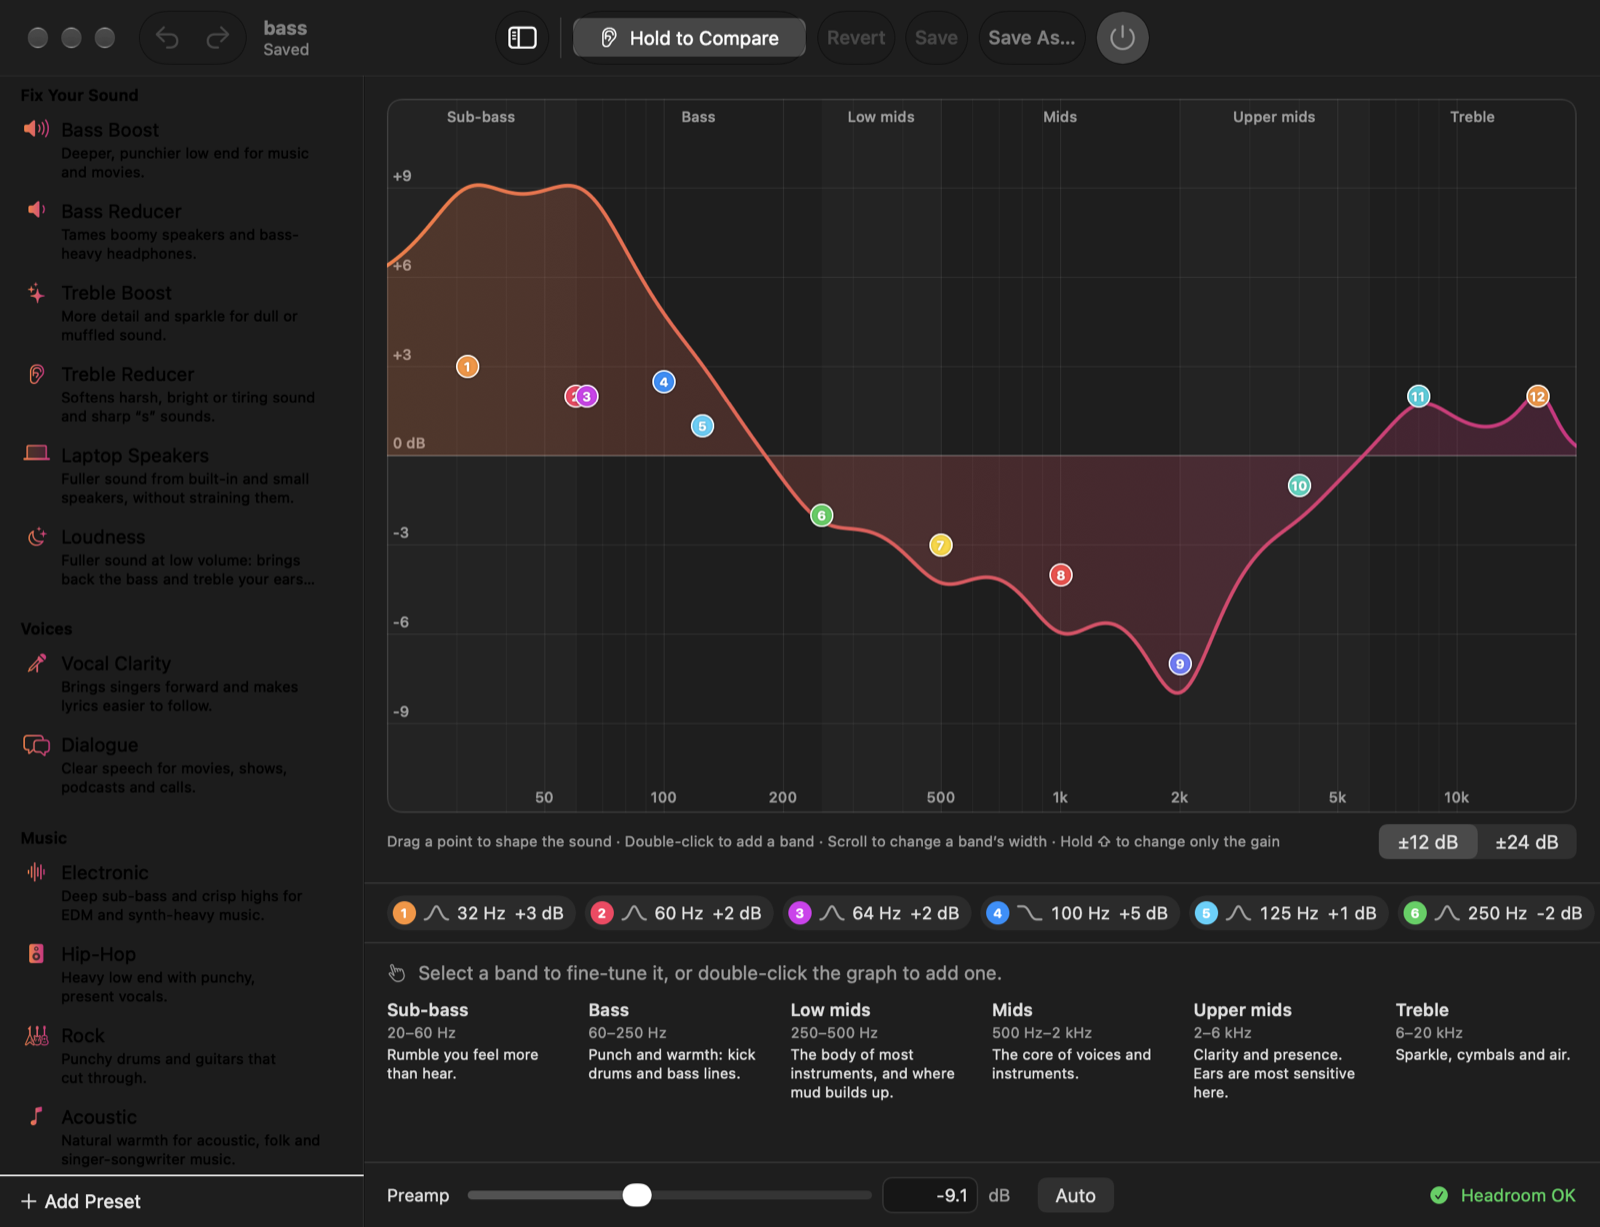
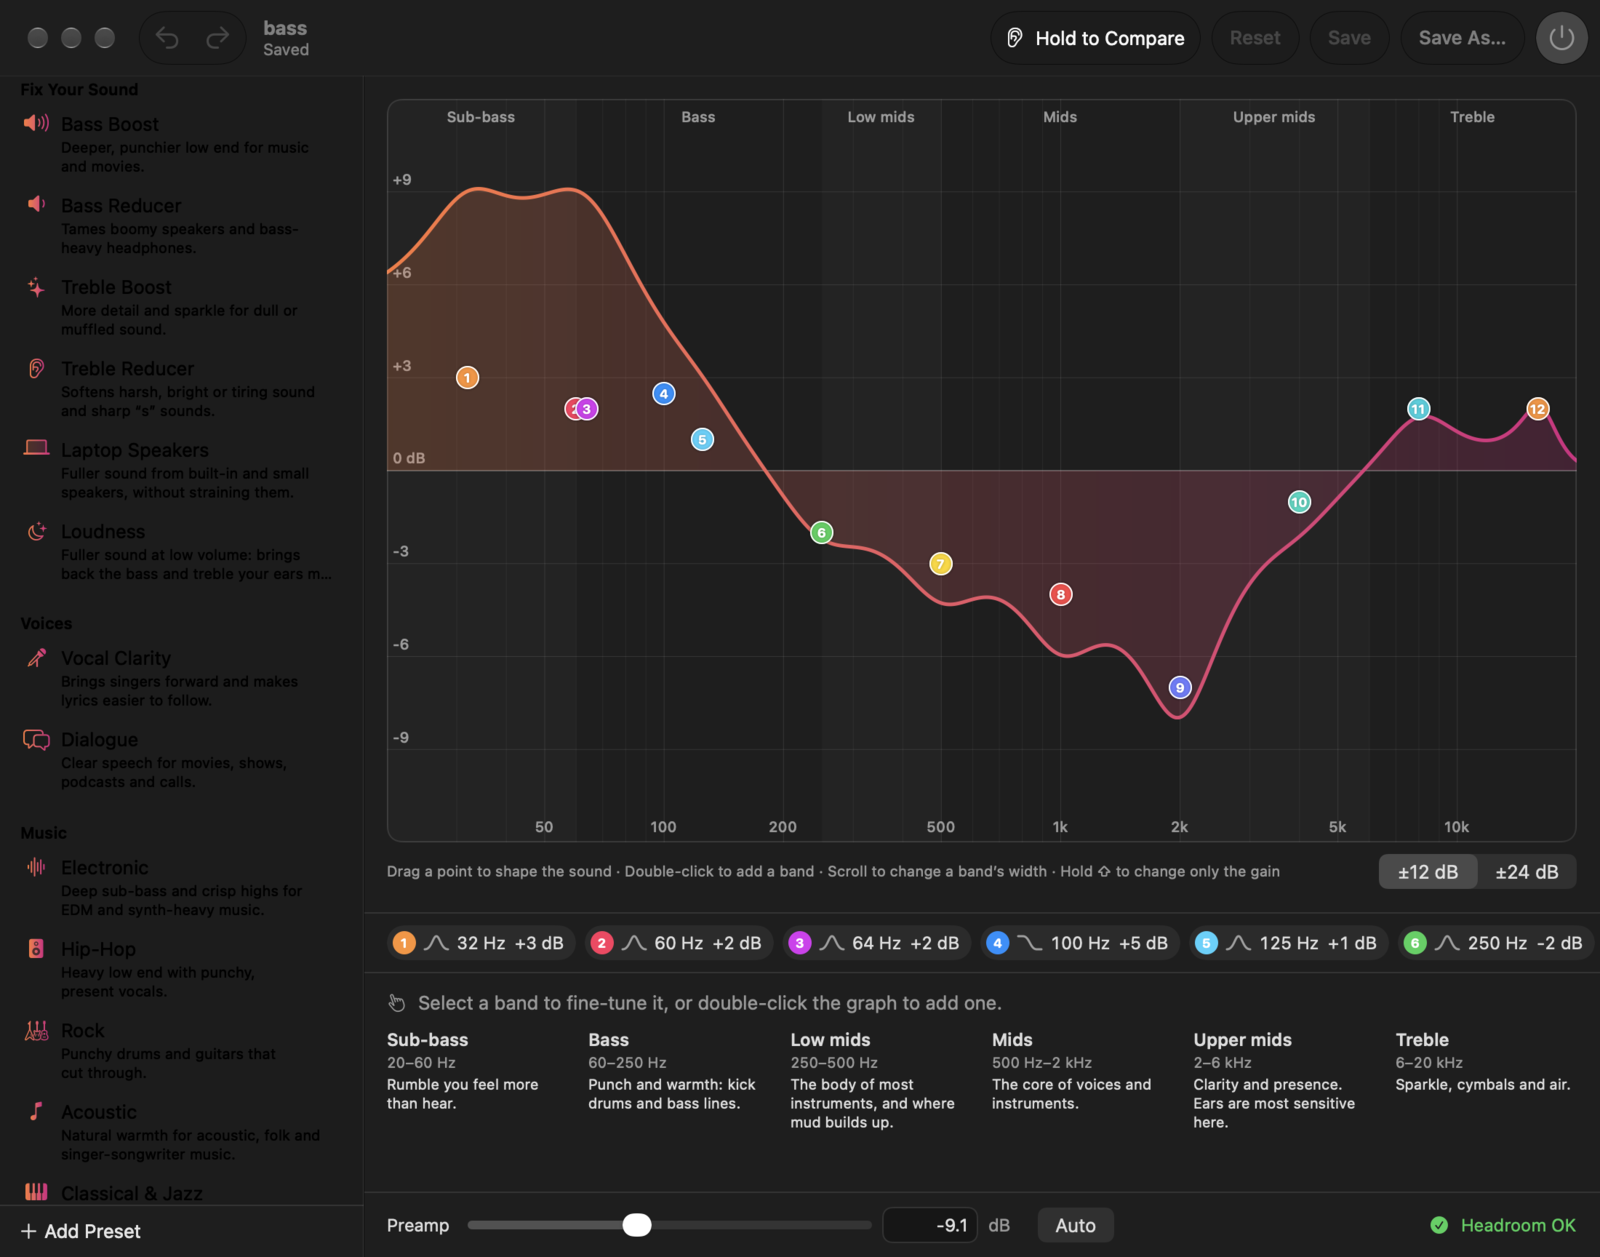
Replace Revert with one Reset to the preset's original state
"Revert" was confusing, and the equalizer offered two ways back behind
one menu: Revert to Saved Version and Reset to Original Tuning. Make it
one Reset that puts a preset back to its original state: a Sound Library
or eqtune preset to the tuning it shipped with, one of the user's own to
how it was last saved.

- The toolbar's Revert menu, the popover's Revert button and the
  sidebar's two menu items become Reset (Reset… in the menu), disabled
  when there's nothing to put back.
- Resetting one of eqtune's presets with only its own unsaved edits no
  longer asks to save them first. eqtune's reset refuses while edits are
  unsaved, but the reset replaces these anyway, so they're dropped. It
  still asks when other presets have unsaved edits.
- Deleting one of eqtune's presets promised that Reset to Original
  Tuning brings it back, but a deleted preset has no row to reset, so it
  now gets the same warning as any other.
- README and CHANGELOG say reset, and the screenshots show the current
  toolbar, Hold to Compare and preset descriptions.

diff --git a/Oomph/UI/Dialogs.swift b/Oomph/UI/Dialogs.swift
@@ -34,20 +34,15 @@ enum Dialogs {
 
     // MARK: - Going back
 
-    /// Throws away unsaved edits, after asking. eqtune can only discard every preset's edits
-    /// at once (by restarting the EQ), so the question names everything that goes back.
-    static func revert(store: EqtuneStore) async {
-        guard let status = store.status, !status.dirtyPresets.isEmpty else { return }
-        let one = status.dirtyPresets.count == 1
-        let alert = NSAlert()
-        alert.messageText = "Revert to the saved version?"
-        alert.informativeText = "\(list(status.dirtyPresets)) \(one ? "goes" : "go") back to how \(one ? "it was" : "they were") last saved."
-            + (status.isOn ? " The EQ restarts for a moment." : "")
-        alert.addButton(withTitle: "Revert").hasDestructiveAction = true
-        alert.addButton(withTitle: "Cancel")
-        NSApp.activate()
-        guard alert.runModal() == .alertFirstButtonReturn else { return }
-        await store.discardAll()
+    /// Puts `preset` back to its original state, after asking: the tuning it shipped with, or
+    /// for one of the user's own, how it was last saved.
+    static func reset(_ preset: String, store: EqtuneStore) async {
+        if hasOriginal(preset) { await resetToOriginal(preset, store: store) } else { await resetToSaved(store: store) }
+    }
+
+    /// Whether Reset has anything to put back for `preset`.
+    static func canReset(_ preset: String, store: EqtuneStore) -> Bool {
+        hasOriginal(preset) || store.status?.dirtyPresets.contains(preset) == true
     }
 
     /// eqtune's own presets and Oomph's library ones have an original tuning to go back to.
@@ -55,20 +50,46 @@ enum Dialogs {
         EqtuneStore.shippedPresets.contains(preset) || SoundLibrary.preset(preset) != nil
     }
 
-    /// Puts `preset` back to its original tuning, after asking.
-    static func resetToOriginal(_ preset: String, store: EqtuneStore) async {
+    /// Throws away unsaved edits, after asking. eqtune can only discard every preset's edits
+    /// at once (by restarting the EQ), so the question names everything that goes back.
+    private static func resetToSaved(store: EqtuneStore) async {
+        guard let status = store.status, !status.dirtyPresets.isEmpty else { return }
+        let one = status.dirtyPresets.count == 1
         let alert = NSAlert()
-        alert.messageText = "Reset “\(displayName(preset))” to its original tuning?"
-        alert.informativeText = "Your changes to this preset, saved or not, are replaced by its original version."
+        alert.messageText = "Reset to the last saved version?"
+        alert.informativeText = "\(list(status.dirtyPresets)) \(one ? "goes" : "go") back to how \(one ? "it was" : "they were") last saved."
+            + (status.isOn ? " The EQ restarts for a moment." : "")
         alert.addButton(withTitle: "Reset").hasDestructiveAction = true
         alert.addButton(withTitle: "Cancel")
         NSApp.activate()
         guard alert.runModal() == .alertFirstButtonReturn else { return }
-        if let item = SoundLibrary.preset(preset) {
+        await store.discardAll()
+    }
+
+    /// Puts `preset` back to its original tuning, after asking.
+    private static func resetToOriginal(_ preset: String, store: EqtuneStore) async {
+        let item = SoundLibrary.preset(preset)
+        // eqtune's `reset` refuses while any preset has unsaved edits. When they're only this
+        // preset's, the reset replaces them anyway, so they go without asking a second time.
+        let dropsItsEdits = item == nil && store.status?.dirtyPresets == [preset]
+        let alert = NSAlert()
+        alert.messageText = "Reset “\(displayName(preset))” to its original tuning?"
+        alert.informativeText = "Your changes to this preset, saved or not, are replaced by its original version."
+            + (dropsItsEdits && store.status?.isOn == true ? " The EQ restarts for a moment." : "")
+        alert.addButton(withTitle: "Reset").hasDestructiveAction = true
+        alert.addButton(withTitle: "Cancel")
+        NSApp.activate()
+        guard alert.runModal() == .alertFirstButtonReturn else { return }
+        if let item {
             await store.resetLibraryPreset(item)
-        } else if await resolveBeforeChanging(store) { // eqtune's `reset` refuses while edits are unsaved
-            await store.resetPreset(preset)
+            return
         }
+        if dropsItsEdits {
+            await store.discardAll()
+        } else {
+            guard await resolveBeforeChanging(store) else { return } // other presets' edits: ask
+        }
+        await store.resetPreset(preset)
     }
 
     /// Picks a library preset: a switch if eqtune has it already, otherwise an import.

diff --git a/Oomph/UI/PresetSidebar.swift b/Oomph/UI/PresetSidebar.swift
@@ -50,10 +50,9 @@ struct PresetSidebar: View {
                             isPresented: Binding(get: { pendingDelete != nil }, set: { if !$0 { pendingDelete = nil } }),
                             presenting: pendingDelete) { name in
             Button("Delete", role: .destructive) { whenClean { await store.deletePreset(name) } }
-        } message: { name in
-            Text(EqtuneStore.shippedPresets.contains(name)
-                 ? "It’s one of eqtune’s own presets; Reset to Original Tuning brings it back."
-                 : "This can’t be undone. Export it first if you might want it again.")
+        } message: { _ in
+            // eqtune's own presets too: only eqtune's command line can bring one back.
+            Text("This can’t be undone. Export it first if you might want it again.")
         }
     }
 
@@ -130,11 +129,8 @@ struct PresetSidebar: View {
     }
 
     @ViewBuilder private func menu(for name: String) -> some View {
-        if store.status?.dirtyPresets.contains(name) == true {
-            if name == store.status?.preset {
-                Button("Save Changes") { Task { await store.savePreset(as: name) } }
-            }
-            Button("Revert to Saved Version…") { Task { await Dialogs.revert(store: store) } }
+        if store.status?.dirtyPresets.contains(name) == true, name == store.status?.preset {
+            Button("Save Changes") { Task { await store.savePreset(as: name) } }
             Divider()
         }
         Button("Duplicate…") {
@@ -159,8 +155,8 @@ struct PresetSidebar: View {
                                                           set: { store.setDevicePreset($0 ? name : nil, for: device.id) }))
         }
         Divider()
-        if Dialogs.hasOriginal(name) {
-            Button("Reset to Original Tuning…") { Task { await Dialogs.resetToOriginal(name, store: store) } }
+        if Dialogs.canReset(name, store: store) {
+            Button("Reset…") { Task { await Dialogs.reset(name, store: store) } }
         }
         Button("Delete…", role: .destructive) { pendingDelete = name }
             .disabled(store.presets.count < 2)

diff --git a/Oomph/UI/EqualizerView.swift b/Oomph/UI/EqualizerView.swift
@@ -175,16 +175,10 @@ private struct PresetEditor: View {
             HoldToCompareButton(inToolbar: true)
         }
         ToolbarItemGroup(placement: .primaryAction) {
-            Menu {
-                Button("Revert to Saved Version…") { Task { await Dialogs.revert(store: store) } }
-                    .disabled(!status.activeIsDirty)
-                Button("Reset to Original Tuning…") { Task { await Dialogs.resetToOriginal(preset.name, store: store) } }
-                    .disabled(!Dialogs.hasOriginal(preset.name))
-            } label: {
-                toolbarTitle("Revert")
-            }
-            .disabled(store.isBusy || !(status.activeIsDirty || Dialogs.hasOriginal(preset.name)))
-            .help("Go back to the last saved version, or to the preset’s original tuning")
+            Button { Task { await Dialogs.reset(preset.name, store: store) } } label: { toolbarTitle("Reset") }
+                .disabled(store.isBusy || !Dialogs.canReset(preset.name, store: store))
+                .help(Dialogs.hasOriginal(preset.name) ? "Put this preset back to its original tuning"
+                                                       : "Put this preset back to how it was last saved")
             Button { Task { await store.savePreset(as: preset.name) } } label: { toolbarTitle("Save") }
                 .disabled(!status.activeIsDirty || store.isBusy)
                 .keyboardShortcut("s")

diff --git a/Oomph/UI/MenuView.swift b/Oomph/UI/MenuView.swift
@@ -187,10 +187,12 @@ struct MenuView: View {
                     Text("“\(displayName(status.preset))” has unsaved changes.")
                         .foregroundStyle(.secondary)
                     Spacer()
-                    Button("Revert") { Task { await Dialogs.revert(store: store) } }
+                    Button("Reset") { Task { await Dialogs.reset(status.preset, store: store) } }
                         .controlSize(.small)
                         .disabled(store.isBusy)
-                        .help("Go back to how “\(displayName(status.preset))” was last saved")
+                        .help(Dialogs.hasOriginal(status.preset)
+                              ? "Put “\(displayName(status.preset))” back to its original tuning"
+                              : "Put “\(displayName(status.preset))” back to how it was last saved")
                     Button("Save") { Task { await store.savePreset(as: status.preset) } }
                         .controlSize(.small)
                         .disabled(store.isBusy)

diff --git a/CHANGELOG.md b/CHANGELOG.md
@@ -23,8 +23,9 @@ All notable changes to Oomph are documented here. The format follows
 - **Headroom check** that warns when boosts would distort loud audio, with a one-click fix.
 - **Headphone correction import** from AutoEq / Equalizer APO parametric EQ files.
 - **Undo and redo** for band and preamp changes.
-- **Revert and Reset to Original**: go back to a preset's last saved version from the menu
-  bar or the equalizer, or restore a Sound Library or eqtune preset to its original tuning.
+- **Reset**: put a preset back to its original state from the equalizer, the menu bar or its
+  right-click menu: a Sound Library or eqtune preset to the tuning it shipped with, one of
+  your own to how you last saved it.
 - **Preset management**: new, duplicate, rename, delete, export, import, and reset eqtune's
   shipped presets.
 - Save all or discard all unsaved edits before preset changes eqtune would otherwise refuse.

diff --git a/README.md b/README.md
@@ -111,7 +111,7 @@ once the EQ is on.
 | Use a preset on one output | Tick *Always use … on (device)* in the menu, or Settings › Devices |
 | Keep your changes | **Save** (⌘S), or **Save As…** for a new preset |
 
-Edits apply live. Like eqtune, Oomph keeps them as *unsaved changes* until you save or revert,
+Edits apply live. Like eqtune, Oomph keeps them as *unsaved changes* until you save or reset them,
 and marks edited presets with an orange dot.
 
 ## How it works
